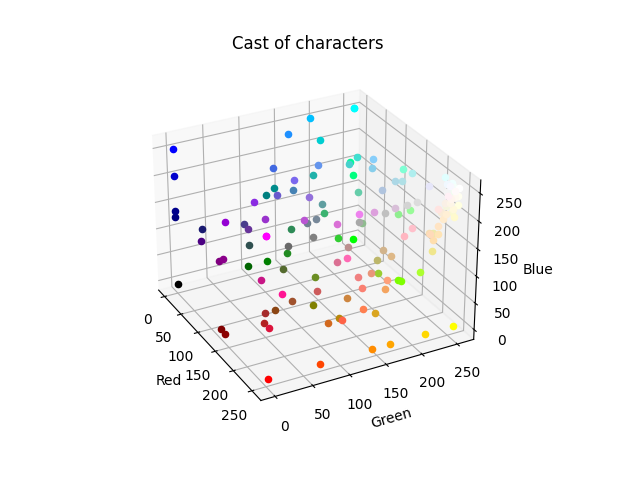
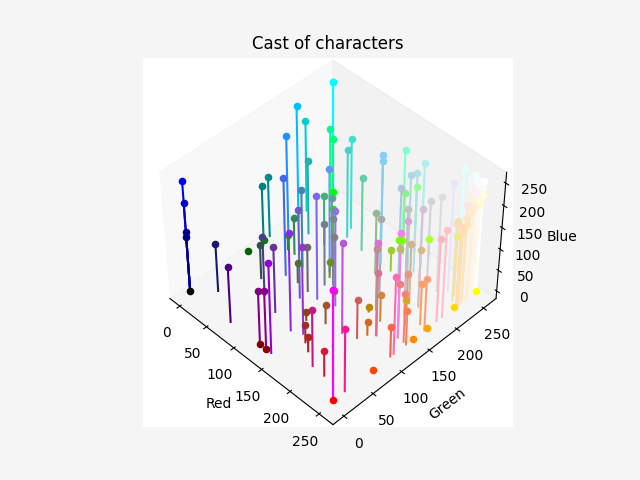
re-weighted the difficulty, changed background to white, to match the finish

diff --git a/app/script.js b/app/script.js
@@ -94,9 +94,9 @@ function assemble_colors(level) {
     }
 
     if (level === 2) {
-        const red_num = generate_rand_num(1, 20);
-        const green_num = generate_rand_num(1, 20);
-        const blue_num = generate_rand_num(1, 20);
+        const red_num = generate_rand_num(1, 10);
+        const green_num = generate_rand_num(1, 10);
+        const blue_num = generate_rand_num(1, 10);
 
         promises = [
             getColor('red', red_num),
@@ -106,9 +106,9 @@ function assemble_colors(level) {
     }
 
     if (level === 3) {
-        const red_num = generate_rand_num(21, 50);
-        const green_num = generate_rand_num(21, 50);
-        const blue_num = generate_rand_num(21, 50);
+        const red_num = generate_rand_num(11, 40);
+        const green_num = generate_rand_num(11, 40);
+        const blue_num = generate_rand_num(11, 40);
 
         promises = [
             getColor('red', red_num),
@@ -118,9 +118,9 @@ function assemble_colors(level) {
     }
 
     if (level === 4) {
-        const red_num = generate_rand_num(51, 100);
-        const green_num = generate_rand_num(51, 100);
-        const blue_num = generate_rand_num(51, 100);
+        const red_num = generate_rand_num(41, 80);
+        const green_num = generate_rand_num(41, 80);
+        const blue_num = generate_rand_num(41, 80);
 
         promises = [
             getColor('red', red_num),
@@ -130,9 +130,9 @@ function assemble_colors(level) {
     }
 
     if (level === 5) {
-        const red_num = generate_rand_num(100, 140);
-        const green_num = generate_rand_num(100, 140);
-        const blue_num = generate_rand_num(100, 140);
+        const red_num = generate_rand_num(81, 140);
+        const green_num = generate_rand_num(81, 140);
+        const blue_num = generate_rand_num(81, 140);
 
         promises = [
             getColor('red', red_num),
@@ -142,31 +142,27 @@ function assemble_colors(level) {
     }
 
     if (level === 6) {
-        const red_num = generate_rand_num(100, 140);
-        const green_num = generate_rand_num(100, 140);
-        const blue_num = generate_rand_num(100, 140);
+        const num = generate_rand_num(10, 20);
 
         promises = [
-            getColor('blue', red_num),
-            getColor('blue', green_num),
-            getColor('blue', blue_num)
+            getColor('blue', num),
+            getColor('blue', num + 2),
+            getColor('blue', num + 4)
         ];
     }
 
     if (level === 7) {
-        const red_num = generate_rand_num(100, 105);
-        const green_num = generate_rand_num(100, 105);
-        const blue_num = generate_rand_num(100, 105);
+        const num = generate_rand_num(10, 20);
 
         promises = [
-            getColor('red', red_num),
-            getColor('red', green_num),
-            getColor('red', blue_num)
+            getColor('red', num),
+            getColor('red', num + 1),
+            getColor('red', num + 2)
         ];
     }
 
     if (level === 8) {
-        const num = generate_rand_num(10, 15);
+        const num = generate_rand_num(50, 100);
 
         promises = [
             getColor('green', num),
@@ -176,7 +172,7 @@ function assemble_colors(level) {
     }
 
     if (level === 9) {
-        const num = generate_rand_num(10, 15);
+        const num = generate_rand_num(50, 100);
 
         promises = [
             getColor('blue', num),
@@ -186,7 +182,7 @@ function assemble_colors(level) {
     }
 
     if (level === 10) {
-        const num = generate_rand_num(10, 15);
+        const num = generate_rand_num(50, 100);
 
         promises = [
             getColor('red', num),
@@ -204,11 +200,12 @@ function assemble_colors(level) {
 function set_game_level(level) {
     if (level > 10) {
         alert('You have completed the game!');
-        document.getElementById('color-name').textContent = 'Thanks for playing! Refresh to start again.';
+        document.getElementById('color-name').textContent = 'You Won! Thanks for playing! Refresh to start again.';
         //Show an image of the color wheel
         const img = document.createElement('img');
         img.src = './images/colors_3d_graph.png';
         img.style.width = '100%';
+        img.style.margin = '0 auto'; // Center horizontally
         container.appendChild(img);        
         return;
     }

diff --git a/app/styles.css b/app/styles.css
@@ -5,7 +5,7 @@ body {
     /* align-items: center; */
     height: 100vh;
     margin: 0;
-    background-color: #f0f0f0;
+    background-color: whitesmoke;
 }
 
 #color-container {

diff --git a/app/assemble_colors.py b/app/assemble_colors.py
@@ -171,11 +171,12 @@ def color_difference(color1, color2):
 
 # Create 3d graph of the colors in rgb space
 
-fig = plt.figure()
+fig = plt.figure(facecolor='whitesmoke')
 ax = fig.add_subplot(111, projection='3d')
 
 for color, rgb in html_colors.items():
     ax.scatter(rgb[0], rgb[1], rgb[2], color=color)
+    ax.plot([rgb[0], rgb[0]], [rgb[1], rgb[1]], [0, rgb[2]], color=color)  # Set major axes color
 
 ax.set_xlabel('Red')
 ax.set_ylabel('Green')
@@ -184,6 +185,8 @@ ax.set_zlabel('Blue')
 ax.set_title('Cast of characters')
 
 ax.view_init(elev=45, azim=-45)  # Adjust the elevation and azimuth angles
+
+ax.grid(False)
 
 plt.show()
 
